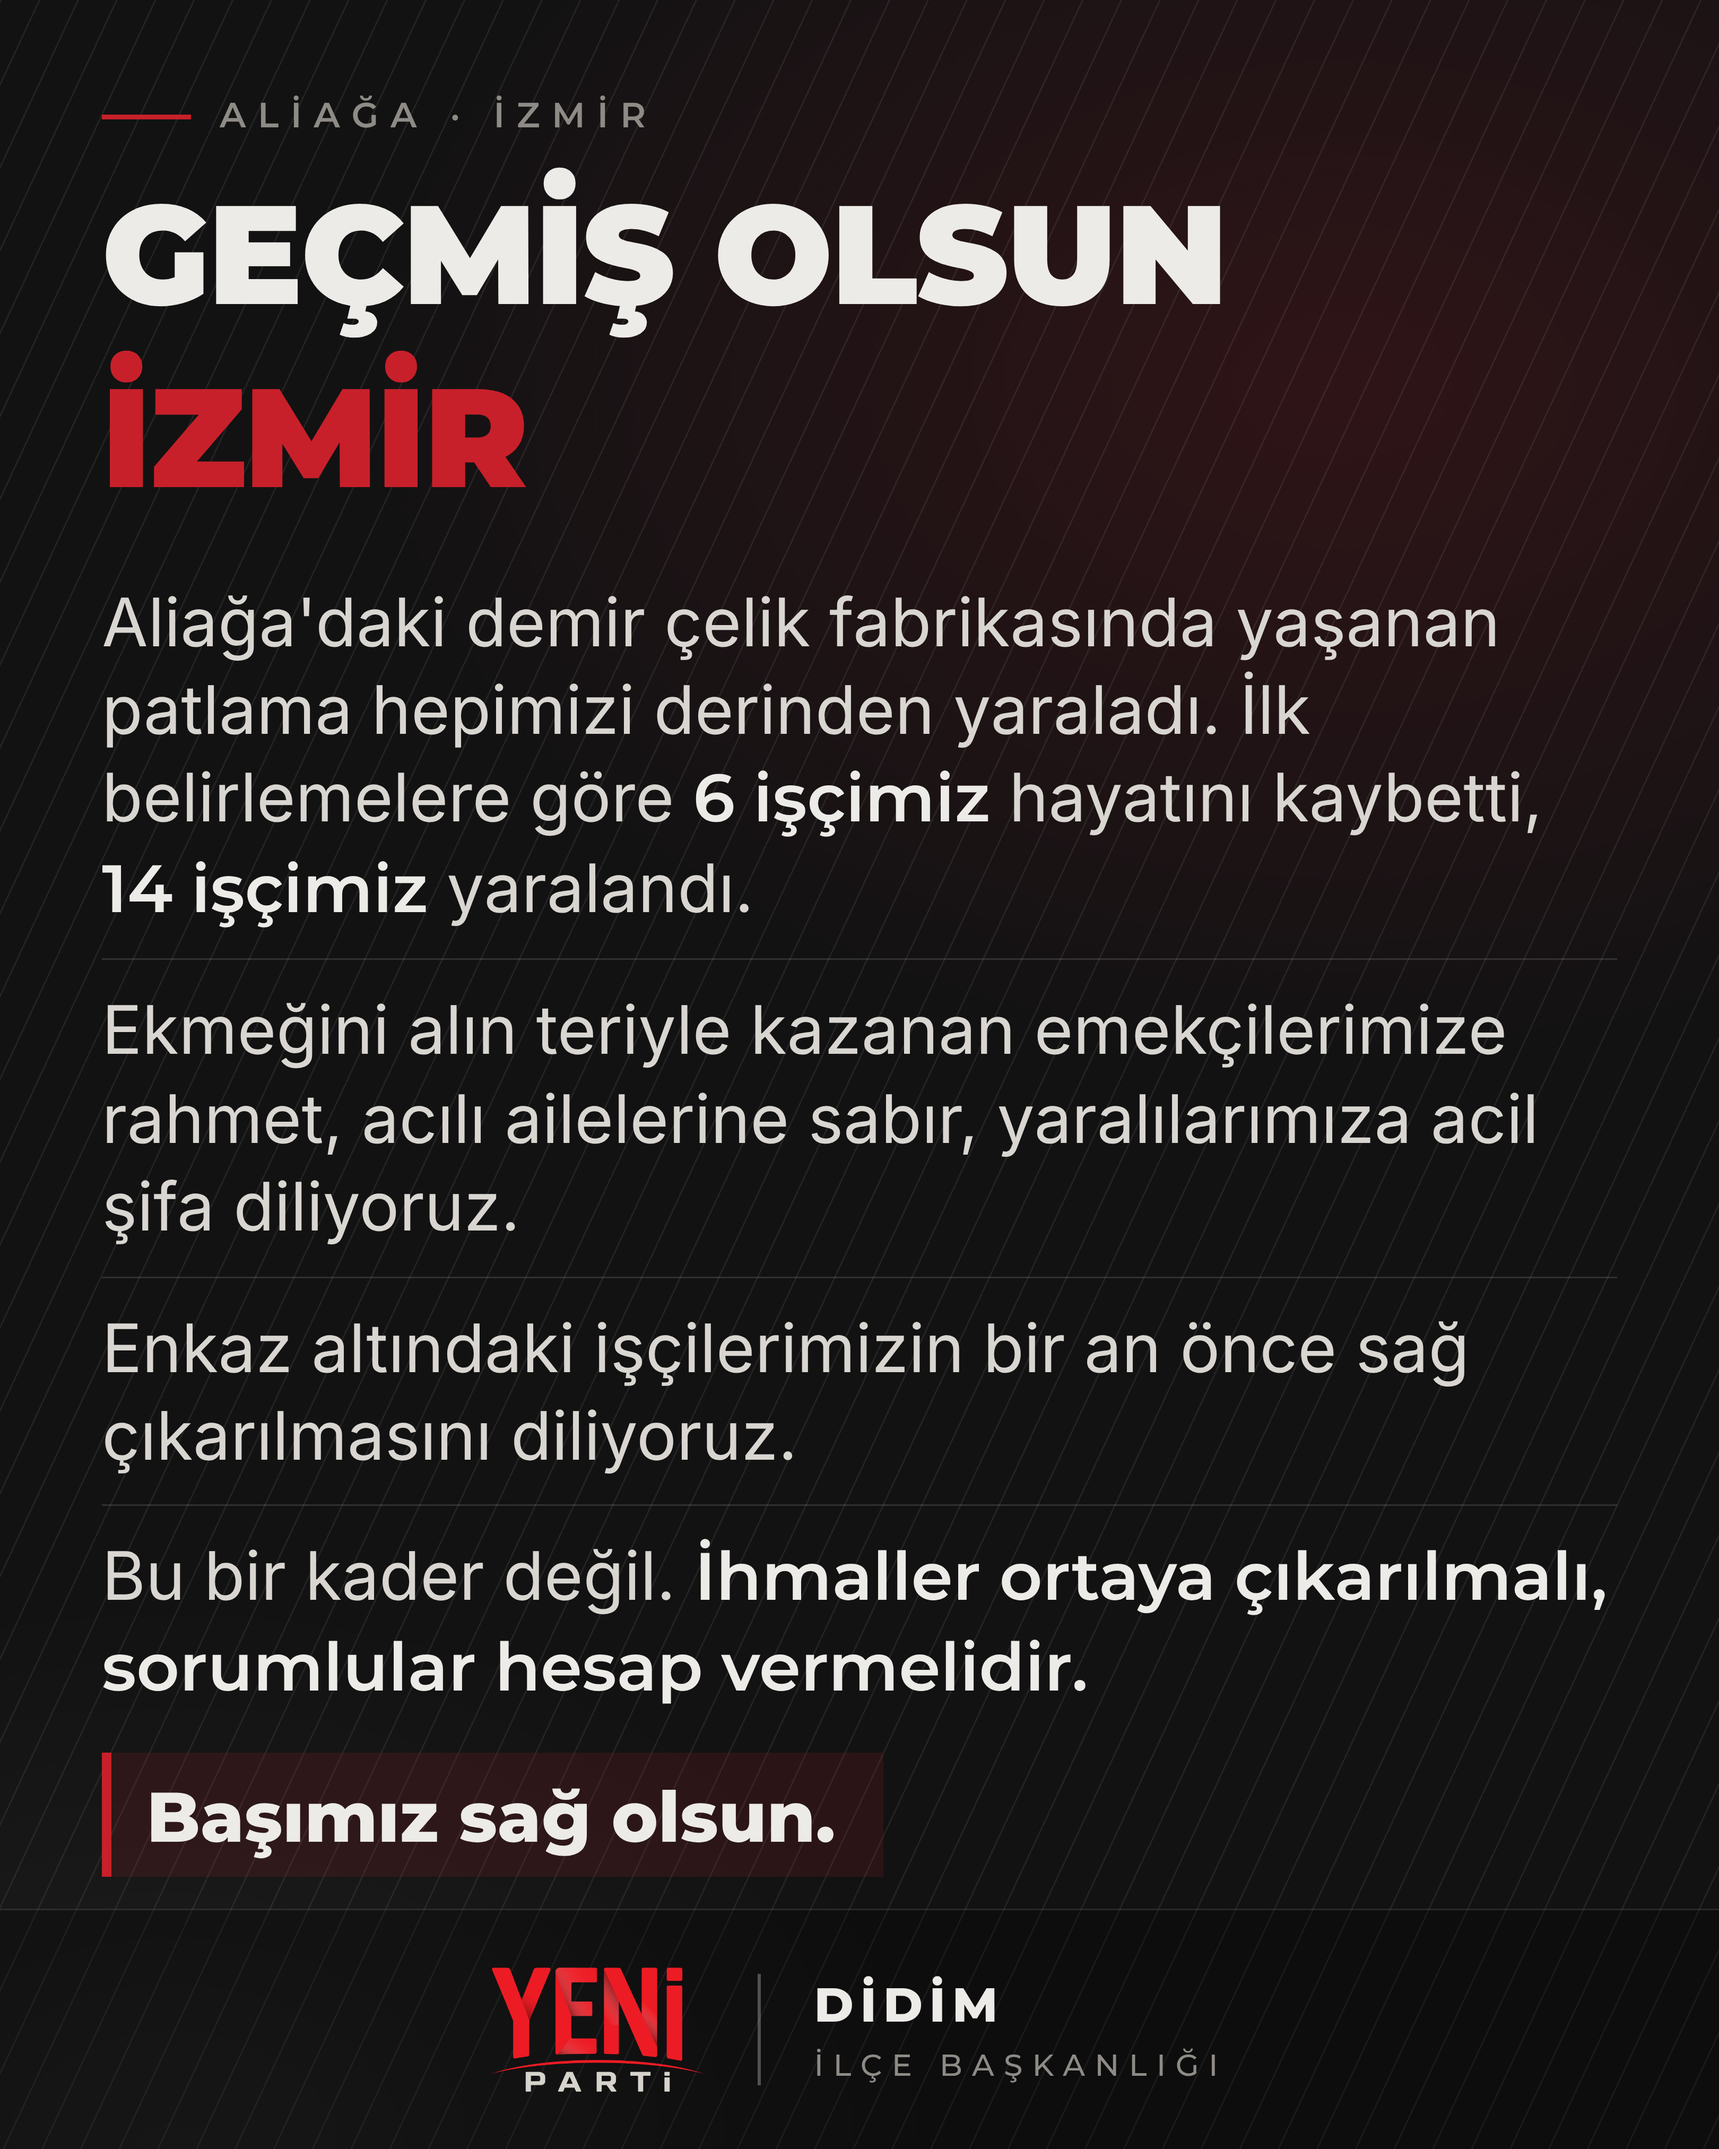
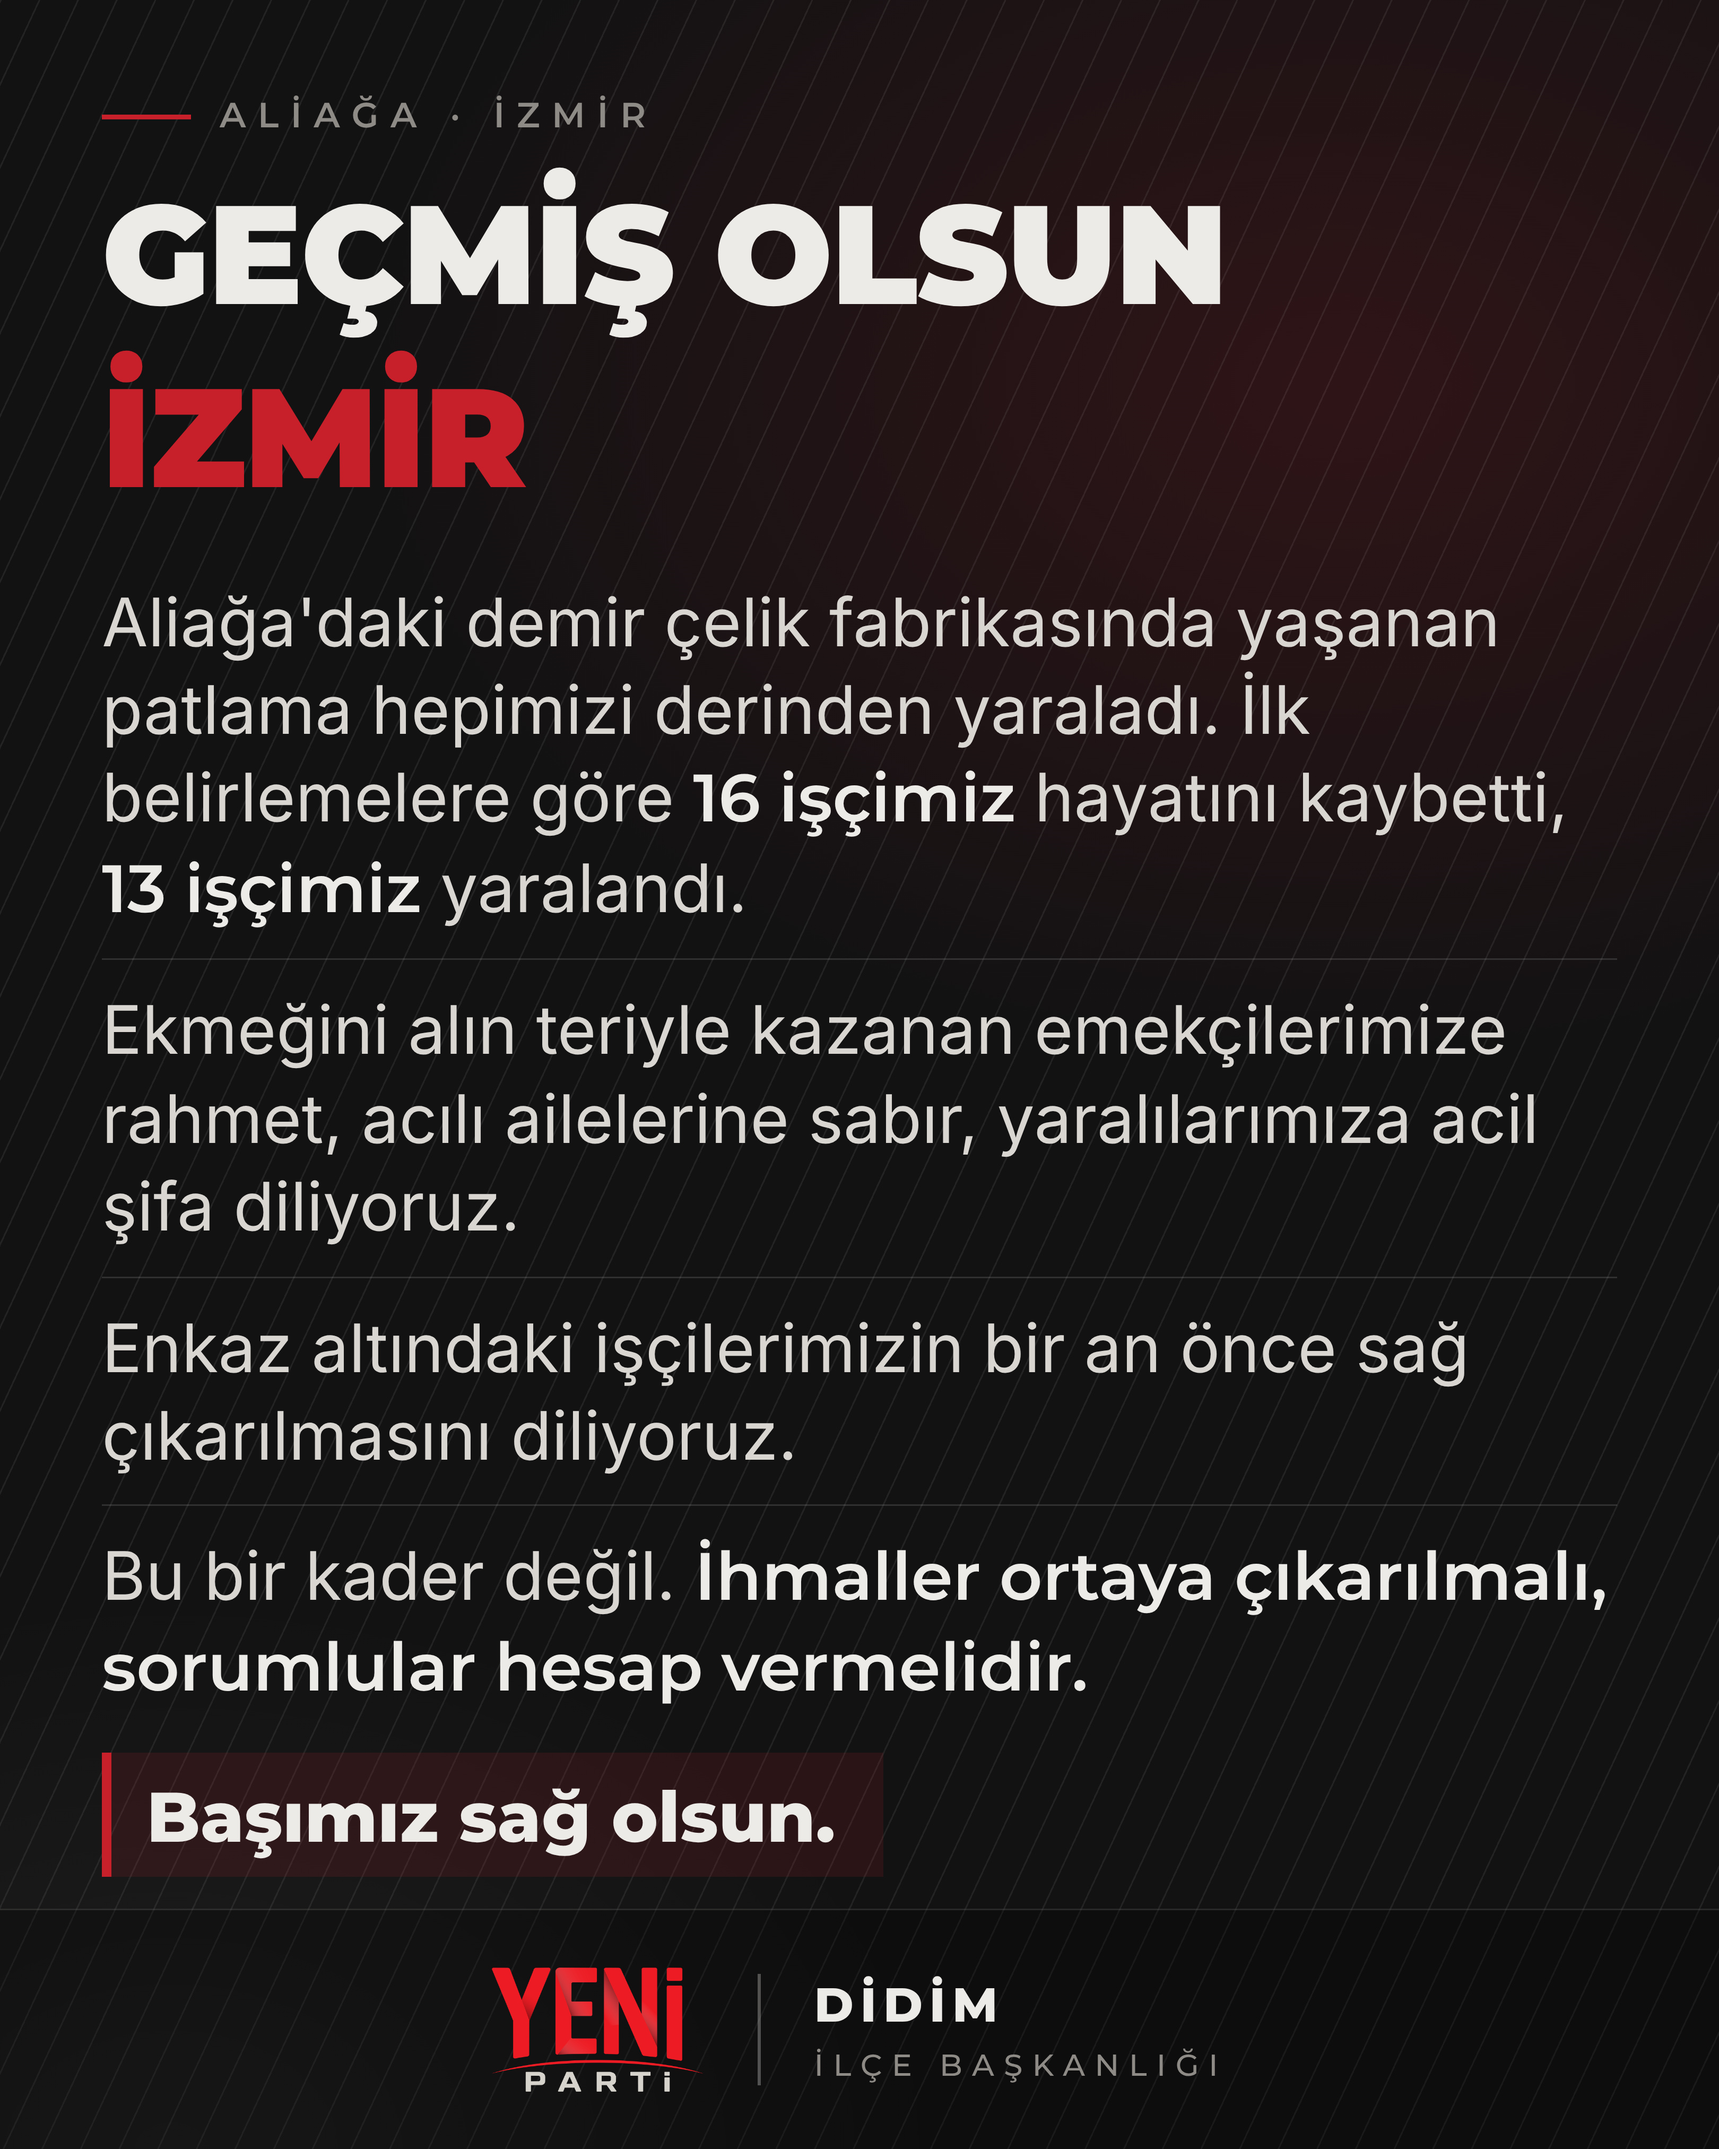
Aliağa: rakamlar güncellendi (16 vefat, 13 yaralı)
Claude-Session: https://claude.ai/code/session_01SatttGbgBLoCnk9KGLypWv

Changed region(s): [[0.0623, 0.3422, 0.904, 0.4356]]

diff --git a/tasarim/kisisel/aliaga/aliaga.html b/tasarim/kisisel/aliaga/aliaga.html
@@ -37,7 +37,7 @@ h1 span{color:var(--kir)}
  <div class="ust">ALİAĞA · İZMİR</div>
  <h1>Geçmiş olsun <span>İzmir</span></h1>
  <div class="metin">
-  <p>Aliağa'daki demir çelik fabrikasında yaşanan patlama hepimizi derinden yaraladı. İlk belirlemelere göre <strong>6&nbsp;işçimiz</strong> hayatını kaybetti, <strong>14&nbsp;işçimiz</strong> yaralandı.</p>
+  <p>Aliağa'daki demir çelik fabrikasında yaşanan patlama hepimizi derinden yaraladı. İlk belirlemelere göre <strong>16&nbsp;işçimiz</strong> hayatını kaybetti, <strong>13&nbsp;işçimiz</strong> yaralandı.</p>
   <p>Ekmeğini alın teriyle kazanan emekçilerimize rahmet, acılı ailelerine sabır, yaralılarımıza acil şifa diliyoruz.</p>
   <p>Enkaz altındaki işçilerimizin bir an önce sağ çıkarılmasını diliyoruz.</p>
   <p>Bu bir kader değil. <strong>İhmaller ortaya çıkarılmalı, sorumlular hesap vermelidir.</strong></p>
